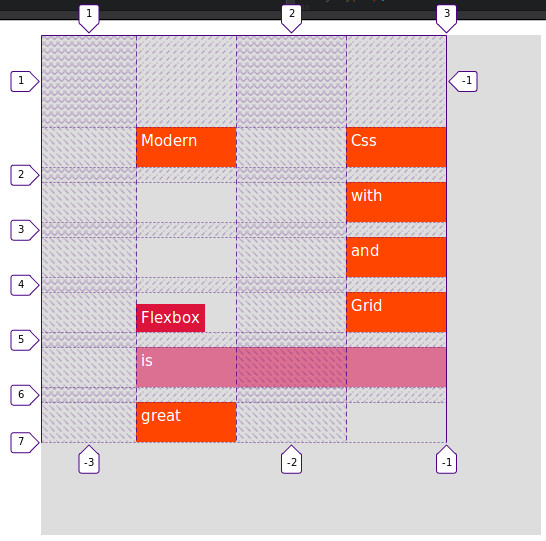
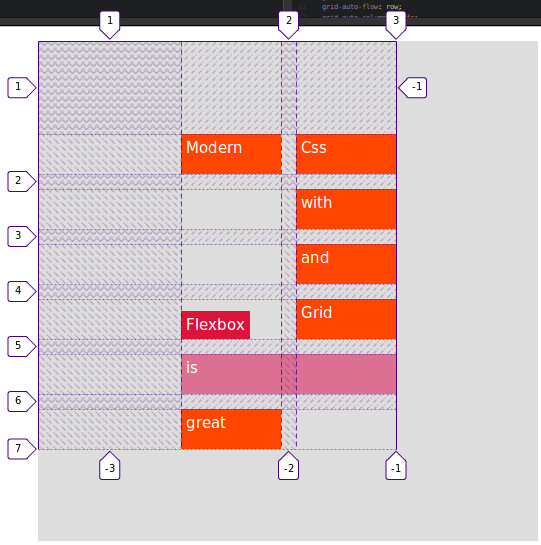
Completely center the entire grid tracks to our container both vertically and horizontally

Changed region(s): [[0.0, 0.0, 1.0, 1.0], [0.7985, 0.7985, 0.8577, 0.8872]]

diff --git a/scss/style.scss b/scss/style.scss
@@ -21,7 +21,7 @@
   grid-template-columns: repeat(2, 200px);
   height: 1000px;
   
-   justify-content: space-evenly; // center/ start/ end /space-between /space-around /space-evenly
+   justify-content: center; // center/ start/ end /space-between /space-around /space-evenly
    align-content: center;
    
   .item {
